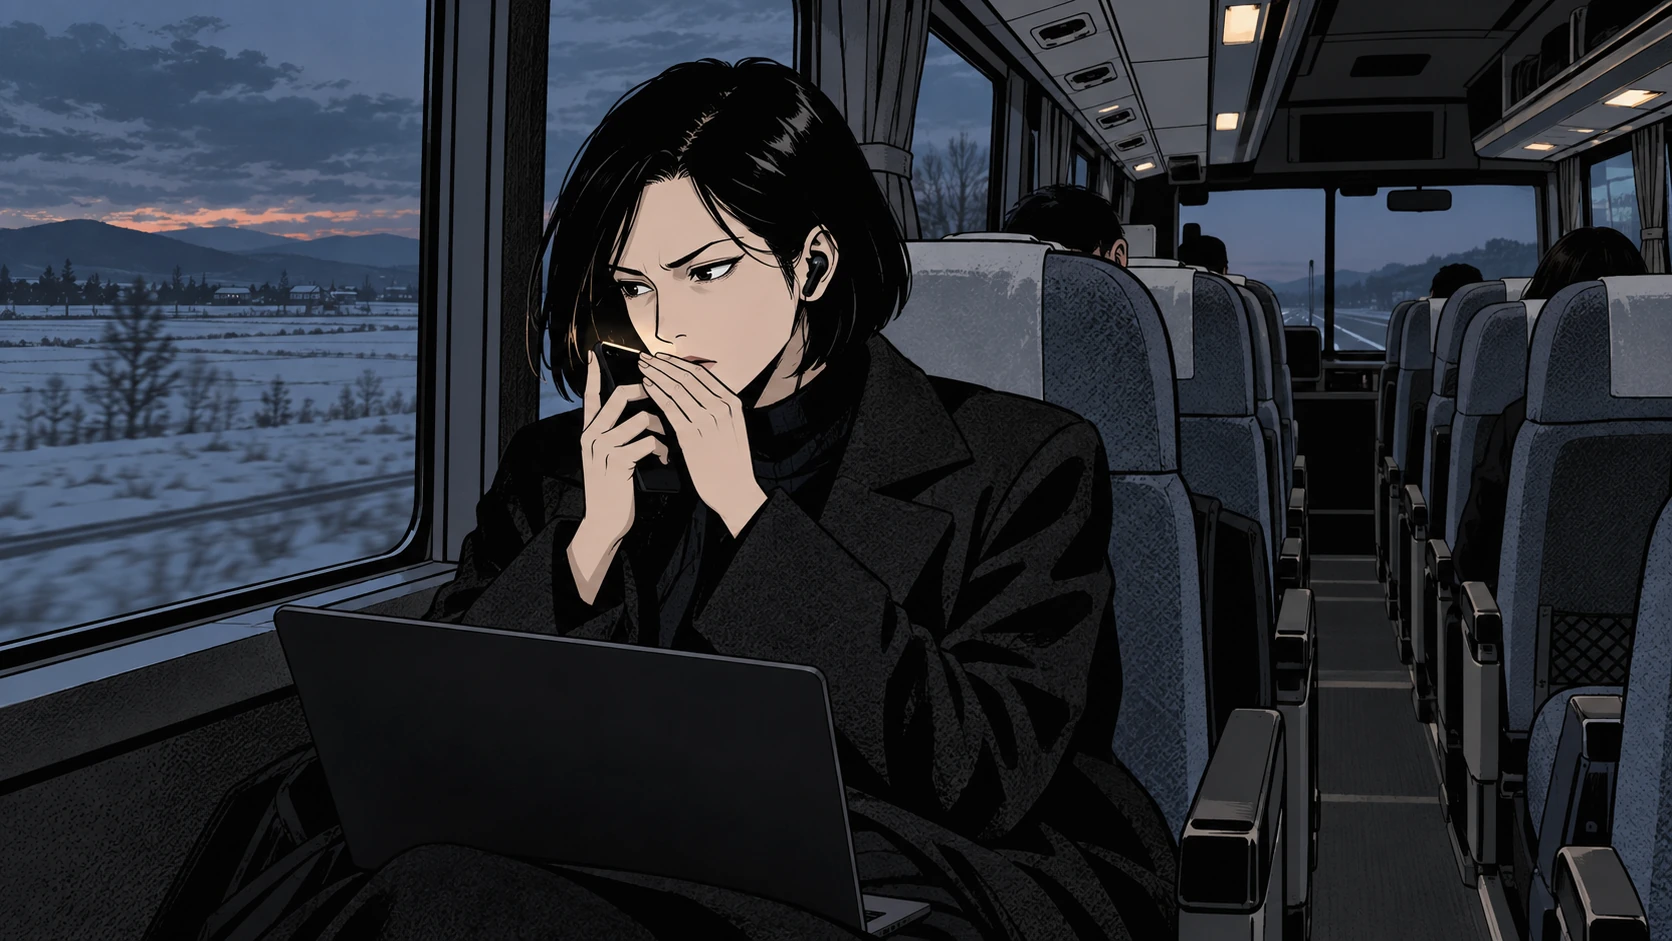
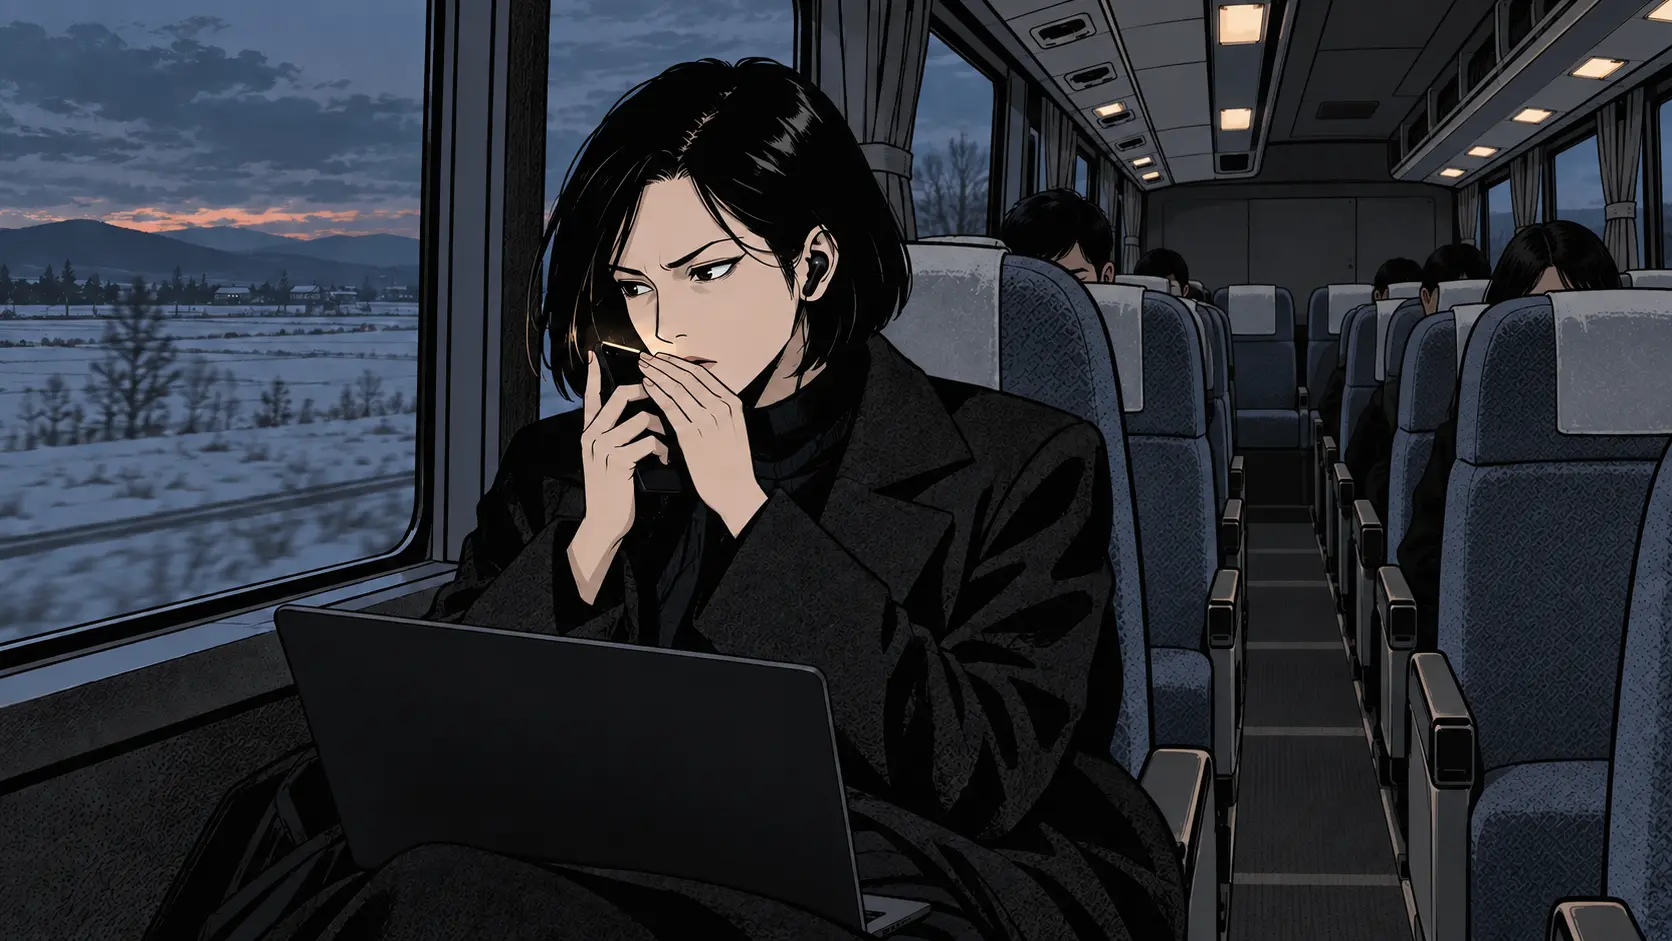
공유 이미지 문구를 '시스템은 복구됐다. 할 일은 끝나지 않았다.'로 교체, ep9 버스 좌석 방향 수정, prompts 기록 갱신

diff --git a/_layouts/default.html b/_layouts/default.html
@@ -16,7 +16,7 @@
 <meta property="og:image:type" content="image/jpeg">
 <meta property="og:image:width" content="1200">
 <meta property="og:image:height" content="630">
-<meta property="og:image:alt" content="비 오는 밤 술집에 마주 앉은 두 사람과 포스트모템 제목, 장애의 뒤에는 사람이 있다">
+<meta property="og:image:alt" content="비 오는 밤 술집에 마주 앉은 두 사람과 포스트모템 제목, 시스템은 복구됐다. 할 일은 끝나지 않았다.">
 <link rel="preconnect" href="https://fonts.googleapis.com">
 <link href="https://fonts.googleapis.com/css2?family=Noto+Serif+KR:wght@400;600&family=IBM+Plex+Mono&display=swap" rel="stylesheet">
 <link rel="stylesheet" href="{{ '/assets/style.css' | relative_url }}">
